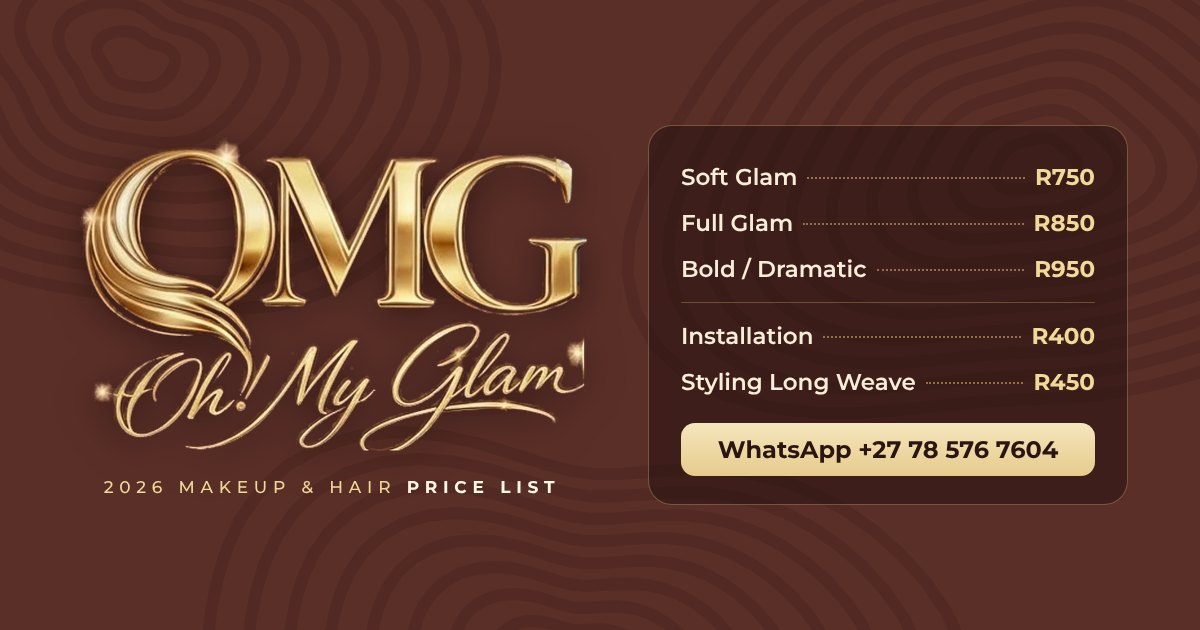
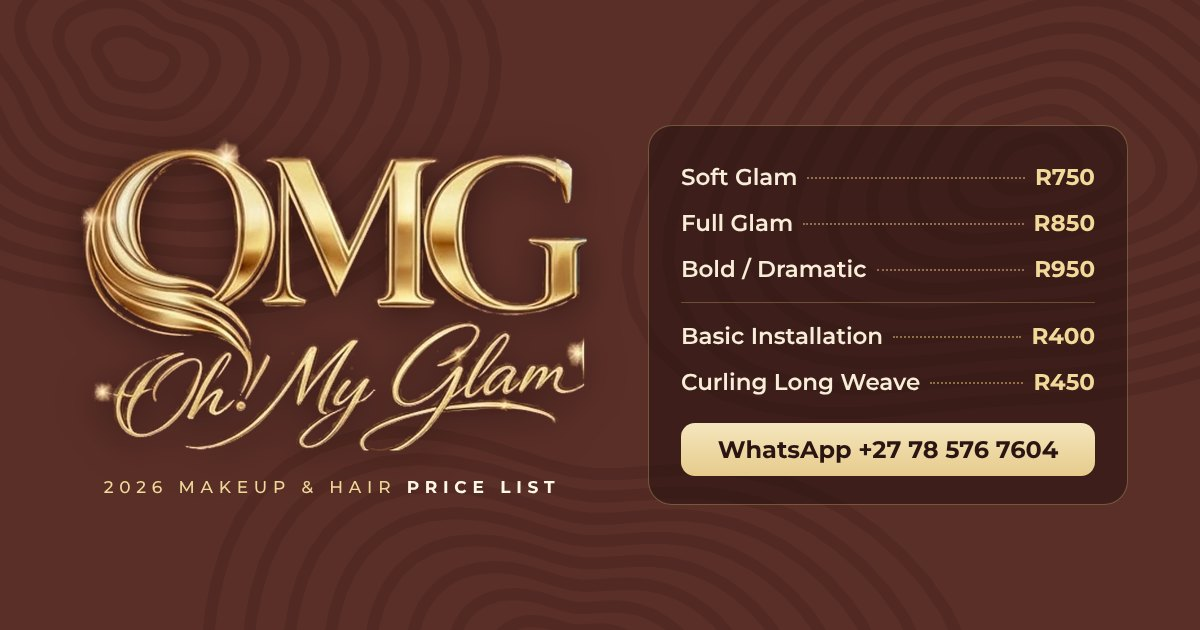
OMG site: rename two hair services and add a bridal section (#25)
"Installation" becomes "Basic Installation" (R400) and "Styling Long Weave"
becomes "Curling Long Weave" (R450). Prices are unchanged. The new names are
used everywhere a client or a search engine reads them: the price list, the
pre-filled WhatsApp booking messages, the page description, the structured
data and the link-preview image.

Adds a Bridal section between the price list and the gallery. It carries no
prices: it asks for the wedding date, venue and how many people need makeup
and hair, and opens WhatsApp with those already laid out for a quote.

Removes the downloadable poster. It still shows the old service names, so
offering it would hand clients a price list that contradicts the page.

Claude-Session: https://claude.ai/code/session_01DgSr9EHDHqUyH4MhRVNy8N

Changed region(s): [[0.555, 0.573, 0.7708, 0.6333], [0.555, 0.5127, 0.74, 0.5429]]

diff --git a/omg-website/public/index.html b/omg-website/public/index.html
@@ -4,7 +4,7 @@
 <meta charset="UTF-8">
 <meta name="viewport" content="width=device-width, initial-scale=1.0">
 <title>OMG – Oh! My Glam | Makeup &amp; Hair | 2026 Price List</title>
-<meta name="description" content="OMG – Oh! My Glam 2026 price list: Soft Glam R750, Full Glam R850, Bold/Dramatic R950, hair installation R400 and long weave styling R450. Home calls available on request. Book on WhatsApp: +27 78 576 7604.">
+<meta name="description" content="OMG – Oh! My Glam 2026 price list: Soft Glam R750, Full Glam R850, Bold/Dramatic R950, Basic Installation R400 and Curling Long Weave R450. Bridal glam by quote. Home calls available on request. Book on WhatsApp: +27 78 576 7604.">
 <meta name="theme-color" content="#3A1D18">
 <meta property="og:type" content="website">
 <meta property="og:site_name" content="OMG – Oh! My Glam">
@@ -31,7 +31,7 @@
   "@type": "HealthAndBeautyBusiness",
   "name": "OMG – Oh! My Glam",
   "alternateName": ["OMG", "Oh! My Glam"],
-  "description": "Makeup and hair styling. Home calls available on request.",
+  "description": "Makeup and hair styling, including bridal glam by quote. Home calls available on request.",
   "telephone": "+27785767604",
   "priceRange": "R400 – R950",
   "currenciesAccepted": "ZAR",
@@ -43,8 +43,8 @@
       { "@type": "Offer", "price": "750", "priceCurrency": "ZAR", "itemOffered": { "@type": "Service", "name": "Soft Glam makeup" } },
       { "@type": "Offer", "price": "850", "priceCurrency": "ZAR", "itemOffered": { "@type": "Service", "name": "Full Glam makeup" } },
       { "@type": "Offer", "price": "950", "priceCurrency": "ZAR", "itemOffered": { "@type": "Service", "name": "Bold / Dramatic makeup" } },
-      { "@type": "Offer", "price": "400", "priceCurrency": "ZAR", "itemOffered": { "@type": "Service", "name": "Hair installation" } },
-      { "@type": "Offer", "price": "450", "priceCurrency": "ZAR", "itemOffered": { "@type": "Service", "name": "Styling long weave" } }
+      { "@type": "Offer", "price": "400", "priceCurrency": "ZAR", "itemOffered": { "@type": "Service", "name": "Basic Installation (hair)" } },
+      { "@type": "Offer", "price": "450", "priceCurrency": "ZAR", "itemOffered": { "@type": "Service", "name": "Curling Long Weave" } }
     ]
   }
 }
@@ -284,13 +284,57 @@
   .fine-print strong { font-weight: 700; }
   @media (min-width: 640px) { .fine-print { padding: 20px 28px; font-size: 16px; } }
 
-  .download { margin: 18px 0 0; text-align: center; }
-  .download a {
-    display: inline-flex; align-items: center; gap: 8px; padding: 8px 2px;
-    font: 600 14px/1.3 var(--sans); color: var(--gold-200); text-decoration: none;
-    border-bottom: 1px solid rgba(241, 217, 154, .4);
+  /* ===== Bridal ===== */
+  .bridal {
+    position: relative; isolation: isolate;
+    background: linear-gradient(180deg, var(--band-top), var(--band-bot));
+    color: var(--cocoa-900);
   }
-  .download a:hover { color: var(--gold-50); border-bottom-color: currentColor; }
+  .bridal::before {
+    content: ''; position: absolute; inset: 0; z-index: -1;
+    background: url('/img/contours.svg') center / cover no-repeat;
+    opacity: .28;
+  }
+  .bridal .eyebrow { color: var(--cocoa-600); }
+  .bridal .section-head h2 { color: var(--cocoa-900); }
+  .bridal .section-head p { color: var(--cocoa-700); max-width: 52ch; }
+  .bridal-grid { display: grid; gap: 28px; align-items: center; }
+  @media (min-width: 900px) { .bridal-grid { grid-template-columns: 1.05fr 1fr; gap: 56px; } }
+  .bridal-points { list-style: none; margin: 0; padding: 0; display: grid; gap: 22px; }
+  .bridal-points li { display: flex; gap: 16px; align-items: flex-start; }
+  .bridal-points .icon {
+    width: 40px; height: 40px; padding: 11px; border-radius: 50%;
+    background: var(--cocoa-800); fill: var(--gold-200);
+  }
+  .bridal-points h3 { margin: 0 0 2px; font: 600 26px/1.15 var(--serif); color: var(--cocoa-900); }
+  .bridal-points p { margin: 0; font-size: 15.5px; color: var(--cocoa-700); }
+  .quote-card {
+    border-radius: var(--radius);
+    background: var(--cocoa-800);
+    color: var(--cream);
+    padding: 28px 22px;
+    box-shadow: 0 24px 50px -26px rgba(31, 14, 11, .9);
+  }
+  @media (min-width: 640px) { .quote-card { padding: 36px; } }
+  .quote-card h3 { margin: 0; font: 600 32px/1.1 var(--serif); }
+  .quote-card > p { margin: 10px 0 0; color: var(--cream-soft); }
+  .quote-card ol { list-style: none; counter-reset: q; margin: 16px 0 24px; padding: 0; }
+  .quote-card li {
+    counter-increment: q;
+    display: flex; align-items: center; gap: 14px;
+    padding: 12px 0;
+    border-bottom: 1px dashed rgba(230, 194, 122, .25);
+    font-weight: 500;
+  }
+  .quote-card li:last-child { border-bottom: 0; }
+  .quote-card li::before {
+    content: counter(q);
+    flex: none; width: 28px; height: 28px; border-radius: 50%;
+    display: grid; place-items: center;
+    font: 700 16px/1 var(--serif);
+    color: var(--cocoa-900); background: var(--gold-fill);
+  }
+  .quote-card .btn { width: 100%; }
 
   /* ===== Gallery ===== */
   .gallery { background: var(--cocoa-800); }
@@ -436,6 +480,7 @@
     </a>
     <nav class="nav" aria-label="Main">
       <a href="#prices">Prices</a>
+      <a href="#bridal">Bridal</a>
       <a href="#gallery">Gallery</a>
       <a href="#book">Book</a>
     </nav>
@@ -465,6 +510,7 @@
       <ul class="chips" aria-label="At a glance">
         <li>Makeup from <b>R750</b></li>
         <li>Hair from <b>R400</b></li>
+        <li>Bridal glam by quote</li>
         <li>Home calls on request</li>
       </ul>
     </div>
@@ -512,19 +558,19 @@
         <article class="card" aria-labelledby="hair-title">
           <div class="card-head">
             <h3 id="hair-title" class="gold-text">Hair</h3>
-            <span>Install &amp; style</span>
+            <span>Install &amp; curl</span>
           </div>
           <ul class="svc-list">
             <li class="svc">
-              <div class="svc-line"><span class="svc-name">Installation</span><span class="svc-dots" aria-hidden="true"></span><span class="svc-price gold-text">R400</span></div>
+              <div class="svc-line"><span class="svc-name">Basic Installation</span><span class="svc-dots" aria-hidden="true"></span><span class="svc-price gold-text">R400</span></div>
               <div class="svc-meta">
-                <a class="svc-book" href="https://wa.me/27785767604?text=Hi%20OMG%21%20I%27d%20like%20to%20book%20Installation%20%28R400%29.%0A%0ADate%3A%0ATime%3A%0AHome%20call%3F%20%28yes%2Fno%2C%20and%20your%20area%29%3A" target="_blank" rel="noopener" aria-label="Book Installation, R400, on WhatsApp">Book <svg class="icon" aria-hidden="true"><use href="#i-arrow"/></svg></a>
+                <a class="svc-book" href="https://wa.me/27785767604?text=Hi%20OMG%21%20I%27d%20like%20to%20book%20Basic%20Installation%20%28R400%29.%0A%0ADate%3A%0ATime%3A%0AHome%20call%3F%20%28yes%2Fno%2C%20and%20your%20area%29%3A" target="_blank" rel="noopener" aria-label="Book Basic Installation, R400, on WhatsApp">Book <svg class="icon" aria-hidden="true"><use href="#i-arrow"/></svg></a>
               </div>
             </li>
             <li class="svc">
-              <div class="svc-line"><span class="svc-name">Styling Long Weave</span><span class="svc-dots" aria-hidden="true"></span><span class="svc-price gold-text">R450</span></div>
+              <div class="svc-line"><span class="svc-name">Curling Long Weave</span><span class="svc-dots" aria-hidden="true"></span><span class="svc-price gold-text">R450</span></div>
               <div class="svc-meta">
-                <a class="svc-book" href="https://wa.me/27785767604?text=Hi%20OMG%21%20I%27d%20like%20to%20book%20Styling%20Long%20Weave%20%28R450%29.%0A%0ADate%3A%0ATime%3A%0AHome%20call%3F%20%28yes%2Fno%2C%20and%20your%20area%29%3A" target="_blank" rel="noopener" aria-label="Book Styling Long Weave, R450, on WhatsApp">Book <svg class="icon" aria-hidden="true"><use href="#i-arrow"/></svg></a>
+                <a class="svc-book" href="https://wa.me/27785767604?text=Hi%20OMG%21%20I%27d%20like%20to%20book%20Curling%20Long%20Weave%20%28R450%29.%0A%0ADate%3A%0ATime%3A%0AHome%20call%3F%20%28yes%2Fno%2C%20and%20your%20area%29%3A" target="_blank" rel="noopener" aria-label="Book Curling Long Weave, R450, on WhatsApp">Book <svg class="icon" aria-hidden="true"><use href="#i-arrow"/></svg></a>
               </div>
             </li>
           </ul>
@@ -536,7 +582,56 @@
         <svg class="icon" aria-hidden="true"><use href="#i-home"/></svg>
         <p><strong>Home calls are available upon request</strong> – transportation fee is excluded from the above price list and is subject to change per client’s location.</p>
       </div>
-      <p class="download"><a href="/omg-2026-price-list.jpg" download="OMG-Oh-My-Glam-2026-price-list.jpg">Save the 2026 price list to share <svg class="icon" aria-hidden="true"><use href="#i-arrow"/></svg></a></p>
+    </div>
+  </section>
+
+  <section class="section bridal" id="bridal" aria-labelledby="bridal-title">
+    <div class="wrap">
+      <div class="section-head">
+        <span class="eyebrow" aria-hidden="true">the big day</span>
+        <h2 id="bridal-title">Bridal Glam</h2>
+        <p>Your wedding day gets its own plan. Tell us your date and where you’re getting ready, and we’ll put together a bridal quote for makeup, hair, or both.</p>
+      </div>
+
+      <div class="bridal-grid">
+        <ul class="bridal-points">
+          <li>
+            <svg class="icon" aria-hidden="true"><use href="#i-spark"/></svg>
+            <div>
+              <h3>Bridal makeup</h3>
+              <p>Soft, full or bold. Your bridal look, your way.</p>
+            </div>
+          </li>
+          <li>
+            <svg class="icon" aria-hidden="true"><use href="#i-spark"/></svg>
+            <div>
+              <h3>Bridal hair</h3>
+              <p>Hair styled to go with your look, on the same day as your makeup.</p>
+            </div>
+          </li>
+          <li>
+            <svg class="icon" aria-hidden="true"><use href="#i-spark"/></svg>
+            <div>
+              <h3>We can come to you</h3>
+              <p>Home calls are available on request. The transport fee is quoted for your location.</p>
+            </div>
+          </li>
+        </ul>
+
+        <div class="quote-card">
+          <h3 class="gold-text">Get your bridal quote</h3>
+          <p>Send us these four things on WhatsApp:</p>
+          <ol>
+            <li>Your wedding date</li>
+            <li>Your venue or area</li>
+            <li>How many people need makeup</li>
+            <li>How many people need hair</li>
+          </ol>
+          <a class="btn btn-gold" href="https://wa.me/27785767604?text=Hi%20OMG%21%20I%27d%20like%20a%20bridal%20quote.%0A%0AWedding%20date%3A%0AVenue%20%2F%20area%3A%0APeople%20needing%20makeup%3A%0APeople%20needing%20hair%3A" target="_blank" rel="noopener">
+            <svg class="icon" aria-hidden="true"><use href="#i-wa"/></svg>Get a bridal quote
+          </a>
+        </div>
+      </div>
     </div>
   </section>
 
@@ -574,7 +669,7 @@
         <ol class="steps">
           <li>
             <h3>Choose your look</h3>
-            <p>Soft Glam, Full Glam or Bold / Dramatic, plus hair installation or long weave styling if you need it.</p>
+            <p>Soft Glam, Full Glam or Bold / Dramatic, plus Basic Installation or Curling Long Weave if you need hair. Getting married? Ask for a bridal quote.</p>
           </li>
           <li>
             <h3>Send a WhatsApp</h3>
@@ -620,7 +715,7 @@
 <footer>
   <div class="wrap">
     <img src="/img/logo.webp" width="150" height="93" loading="lazy" alt="OMG – Oh! My Glam">
-    <p>Makeup &amp; hair · Home calls on request</p>
+    <p>Makeup &amp; hair · Bridal · Home calls on request</p>
     <p><a href="https://wa.me/27785767604" target="_blank" rel="noopener">WhatsApp +27 78 576 7604</a></p>
     <p>Prices valid for 2026. Home call transport fees are quoted separately.</p>
     <p>© 2026 OMG – Oh! My Glam</p>

diff --git a/omg-website/README.md b/omg-website/README.md
@@ -1,14 +1,20 @@
 # OMG – Oh! My Glam
 
-Single-page site for OMG – Oh! My Glam (makeup and hair). Every price, the
-fine print and the contact details come straight from the 2026 price-list
-poster, which is also published at `/omg-2026-price-list.jpg` so clients can
-save and forward it.
+Single-page site for OMG – Oh! My Glam (makeup and hair). The prices, the fine
+print and the contact details come from the 2026 price-list poster.
+
+Two hair services have been renamed since the poster was printed, at the
+same prices: "Installation" is now **Basic Installation** (R400) and "Styling
+Long Weave" is now **Curling Long Weave** (R450). The poster is no longer
+offered as a download for that reason. The site also has a **Bridal** section,
+which is not on the poster: it carries no prices and sends brides to WhatsApp
+for a quote.
 
 Plain HTML and CSS, no build step and no JavaScript. Every booking button opens
 WhatsApp (+27 78 576 7604) with a message already filled in for that service,
 so the enquiry arrives with the service, price, date, time and home-call details
-in one go.
+in one go. The bridal button asks for the wedding date, venue, and how many
+people need makeup and hair.
 
 ## Deploy
 
